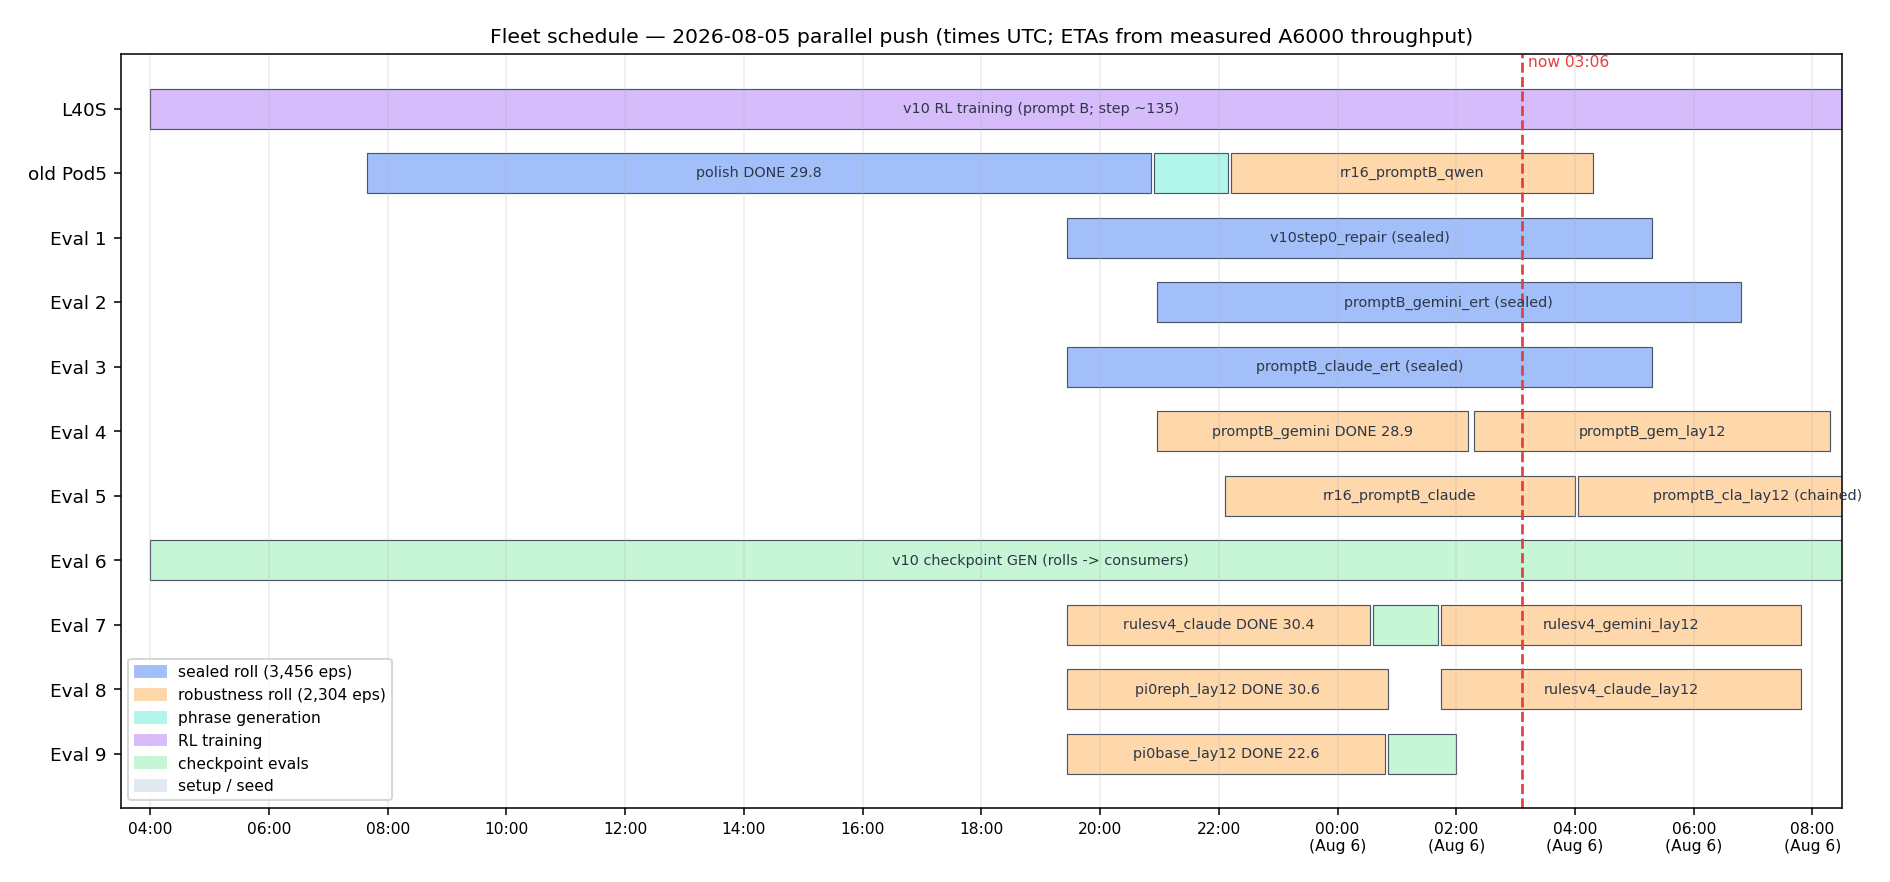
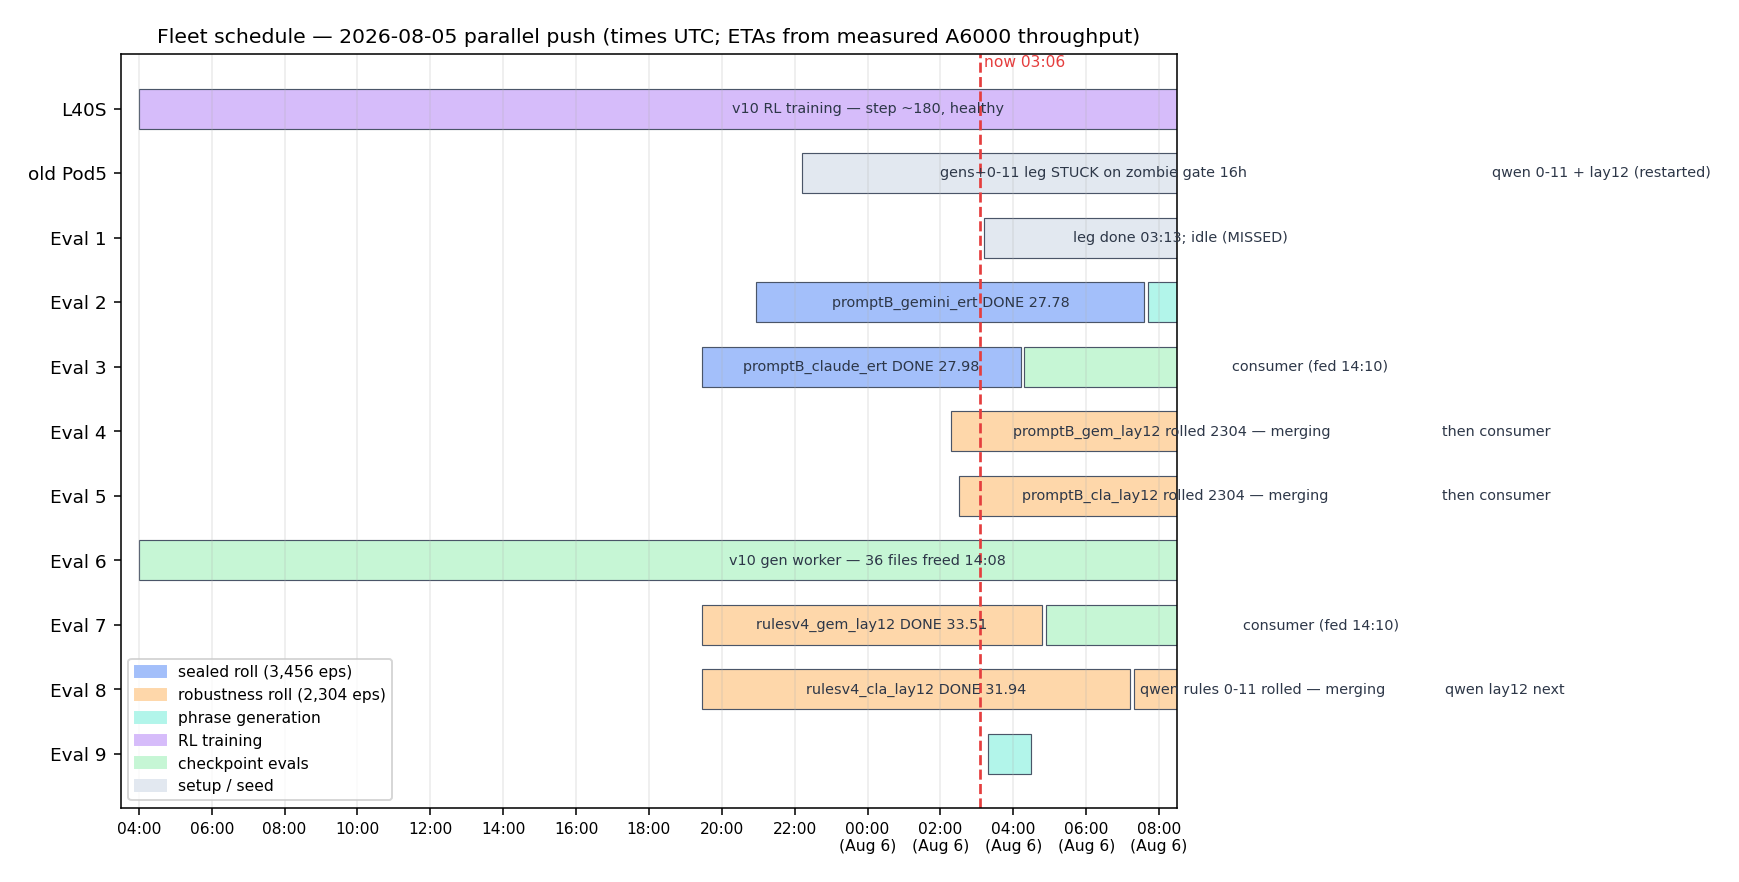
gantt: 14:18 ground truth — 3 stopped, merge-stage legs, pipeline unblocked

diff --git a/scripts/make_fleet_gantt.py b/scripts/make_fleet_gantt.py
@@ -12,19 +12,19 @@ C = {"sealed": "#a3bffa", "rr": "#fed7aa", "gen": "#b2f5ea",
 NOW = 27.1  # 03:06 UTC Aug 6
 
 ROWS = [
-    ("L40S",    [("v10 RL training (prompt B; step ~135)", 4.0, 34.0, "train")]),
-    ("old Pod5",[("polish DONE 29.8", 7.65, 20.85, "sealed"), ("gens", 20.9, 22.15, "gen"),
-                 ("rr16_promptB_qwen", 22.2, 28.3, "rr")]),
-    ("Eval 1",  [("v10step0_repair (sealed)", 19.45, 29.3, "sealed")]),
-    ("Eval 2",  [("promptB_gemini_ert (sealed)", 20.95, 30.8, "sealed")]),
-    ("Eval 3",  [("promptB_claude_ert (sealed)", 19.45, 29.3, "sealed")]),
-    ("Eval 4",  [("promptB_gemini DONE 28.9", 20.95, 26.2, "rr"), ("promptB_gem_lay12", 26.3, 32.3, "rr")]),
-    ("Eval 5",  [("rr16_promptB_claude", 22.1, 28.0, "rr"), ("promptB_cla_lay12 (chained)", 28.05, 34.1, "rr")]),
-    ("Eval 6",  [("v10 checkpoint GEN (rolls -> consumers)", 4.0, 34.0, "worker")]),
-    ("Eval 7",  [("rulesv4_claude DONE 30.4", 19.45, 24.55, "rr"), ("consumer", 24.6, 25.7, "worker"),
-                 ("rulesv4_gemini_lay12", 25.75, 31.8, "rr")]),
-    ("Eval 8",  [("pi0reph_lay12 DONE 30.6", 19.45, 24.85, "rr"), ("rulesv4_claude_lay12", 25.75, 31.8, "rr")]),
-    ("Eval 9",  [("pi0base_lay12 DONE 22.6", 19.45, 24.8, "rr"), ("cancelled/consumer", 24.85, 26.0, "worker")]),
+    ("L40S",    [("v10 RL training — step ~180, healthy", 4.0, 44.0, "train")]),
+    ("old Pod5",[("gens+0-11 leg STUCK on zombie gate 16h", 22.2, 38.2, "setup"),
+                 ("qwen 0-11 + lay12 (restarted)", 38.3, 50.0, "rr")]),
+    ("Eval 1",  [("leg done 03:13; idle (MISSED) ", 27.2, 38.1, "setup"), ("STOPPED 14:10", 38.15, 39.3, "gen")]),
+    ("Eval 2",  [("promptB_gemini_ert DONE 27.78", 20.95, 31.6, "sealed"), ("STOPPED 07:50", 31.7, 32.9, "gen")]),
+    ("Eval 3",  [("promptB_claude_ert DONE 27.98", 19.45, 28.2, "sealed"), ("consumer (fed 14:10)", 28.3, 44.0, "worker")]),
+    ("Eval 4",  [("promptB_gem_lay12 rolled 2304 — merging", 26.3, 38.4, "rr"), ("then consumer", 38.5, 44.0, "worker")]),
+    ("Eval 5",  [("promptB_cla_lay12 rolled 2304 — merging", 26.5, 38.4, "rr"), ("then consumer", 38.5, 44.0, "worker")]),
+    ("Eval 6",  [("v10 gen worker — 36 files freed 14:08", 4.0, 44.0, "worker")]),
+    ("Eval 7",  [("rulesv4_gem_lay12 DONE 33.51", 19.45, 28.8, "rr"), ("consumer (fed 14:10)", 28.9, 44.0, "worker")]),
+    ("Eval 8",  [("rulesv4_cla_lay12 DONE 31.94", 19.45, 31.2, "rr"), ("qwen rules 0-11 rolled — merging", 31.3, 38.4, "rr"),
+                 ("qwen lay12 next", 38.5, 44.5, "rr")]),
+    ("Eval 9",  [("STOPPED 03:20 (capability test)", 27.3, 28.5, "gen")]),
 ]
 
 fig, ax = plt.subplots(figsize=(13.5, 6.2))
